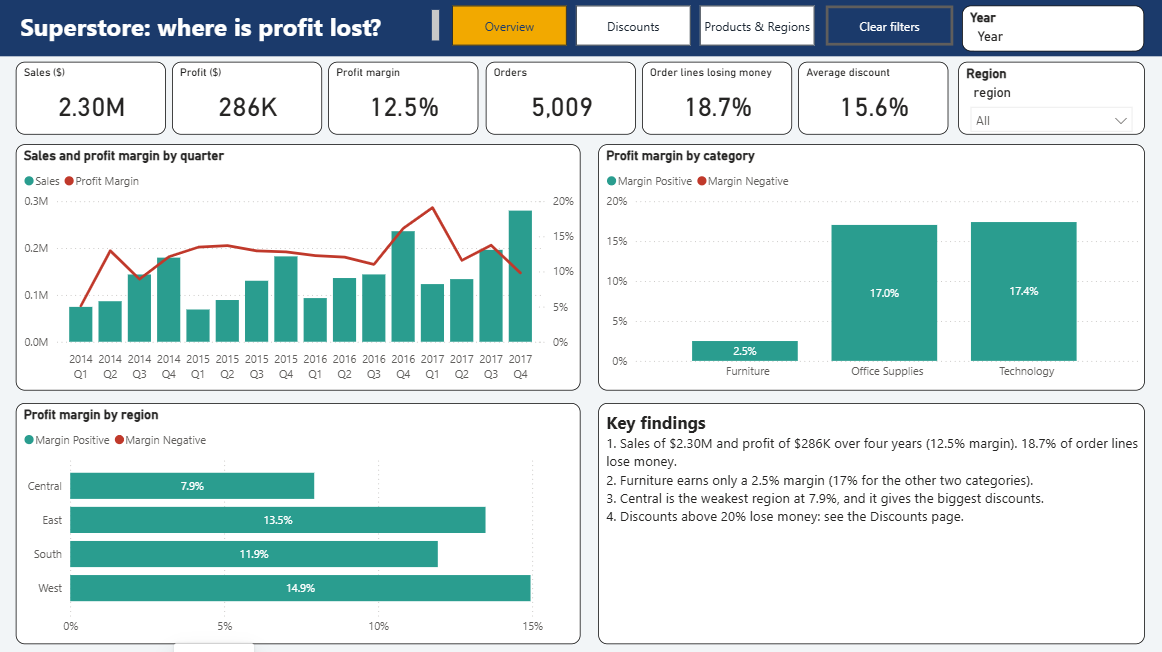
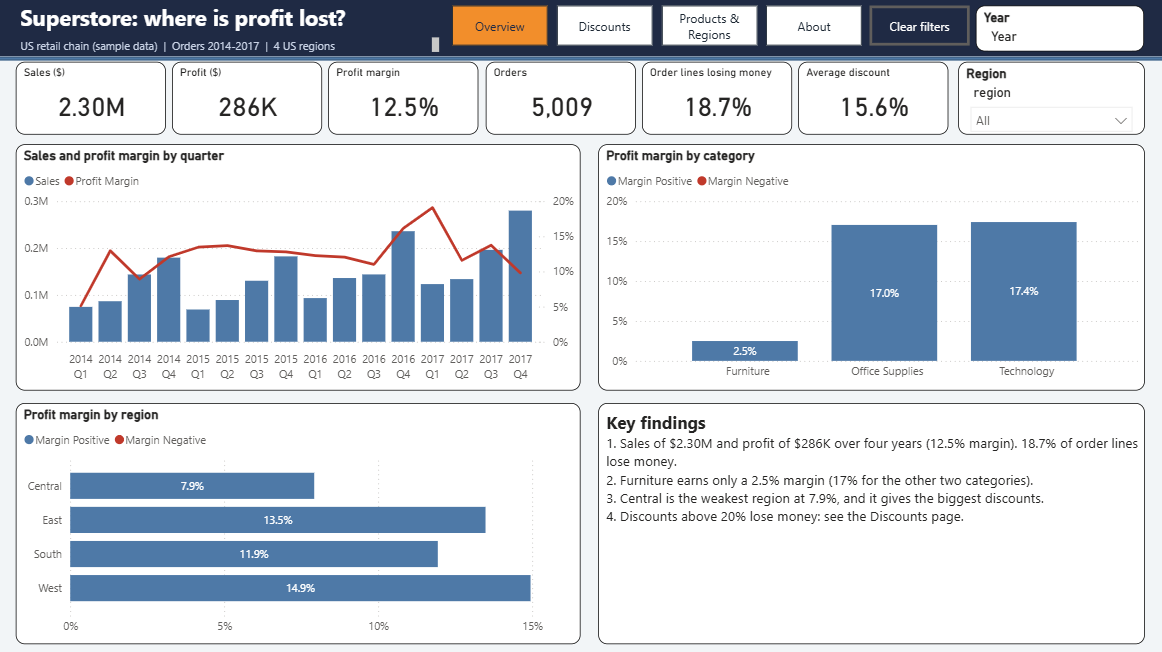
Refresh the Power BI design and add an About page
New identity (slate header, blue data color, orange accent, red for losses),
a subtitle and accent stripe in the header, and a fourth page that presents the
fictional company, the data in numbers, definitions, method and limits.

diff --git a/powerbi/build_pbip.py b/powerbi/build_pbip.py
@@ -24,7 +24,10 @@ DATA_DIR = str(ROOT / "data")
 TABLES_DIR = str(ROOT / "reports" / "tables")
 
 T = "\t"
-NAVY, TEAL, RED, AMBER, GREY = "#1B3A6B", "#2A9D8F", "#C0392B", "#F2A900", "#9AA5B1"
+# Superstore is a fictional company (Tableau sample data), so it has no brand colors.
+# The identity is a design choice: deep slate header, blue as the main data color,
+# orange as the accent, and red reserved for losses.
+NAVY, TEAL, RED, AMBER, GREY = "#1F2A44", "#4E79A7", "#C0392B", "#F28E2B", "#9AA5B1"
 
 
 def w(path, text):
@@ -322,7 +325,7 @@ def table(name, x, y, w_, h, cols, ttl, sort=None):
 def nav(name):
     selected = {"properties": {"fillColor": solid(AMBER)}, "selector": {"id": "selected"}}
     selected_text = {"properties": {"fontColor": solid(NAVY)}, "selector": {"id": "selected"}}
-    return visual(name, 500, 8, 400, 44, "pageNavigator", objects={"fill": [selected], "text": [selected_text]})
+    return visual(name, 500, 8, 450, 44, "pageNavigator", objects={"fill": [selected], "text": [selected_text]})
 
 
 def band(name):
@@ -337,19 +340,36 @@ def clear_button(name):
                                      "fontColor": solid("#FFFFFF")}, "selector": {"id": "default"}}],
             "icon": [{"properties": {"shapeType": lit("'blank'")}, "selector": {"id": "default"}}]}
     link = {"visualLink": [{"properties": {"show": lit("true"), "type": lit("'ClearAllSlicers'")}}]}
-    return visual(name, 910, 8, 140, 44, "actionButton", objects=objs, container=link)
+    return visual(name, 958, 8, 110, 44, "actionButton", objects=objs, container=link)
 
 
 def title_box(name, text):
-    return textbox(name, 20, 8, 470, 44, [(text, True, 20, "#FFFFFF")])
+    return textbox(name, 20, 0, 470, 46, [(text, True, 18, "#FFFFFF")])
+
+
+def subtitle_box(name):
+    return textbox(name, 20, 38, 470, 26,
+                   [("US retail chain (sample data)  |  Orders 2014-2017  |  4 US regions",
+                     False, 9, "#C9D3E6")])
+
+
+def accent_stripe(name):
+    objs = {"shape": [{"properties": {"tileShape": lit("'rectangle'")}}],
+            "fill": [{"properties": {"fillColor": solid(AMBER)}, "selector": {"id": "default"}}],
+            "outline": [{"properties": {"show": lit("false")}}]}
+    return visual(name, 0, 64, 1280, 4, "shape", objs, z=1)
 
 
 def cards(names_and_specs):
     return [card(n, 20 + i * 172, m, lab, **kw) for i, (n, m, lab, kw) in enumerate(names_and_specs)]
 
 
-TOP = lambda t, n: [title_box(f"title{n}", t), nav(f"nav{n}"), clear_button(f"clear{n}"),
-                    slicer(f"slicer_year{n}", 1060, 8, 200, 50, "Calendar", "Year", "Year")]
+def TOP(t, n, year_slicer=True):
+    items = [title_box(f"title{n}", t), subtitle_box(f"subtitle{n}"), accent_stripe(f"stripe{n}"),
+             nav(f"nav{n}"), clear_button(f"clear{n}")]
+    if year_slicer:
+        items.append(slicer(f"slicer_year{n}", 1075, 8, 185, 50, "Calendar", "Year", "Year"))
+    return items
 
 # ---------------- page 1: overview
 page1 = TOP("Superstore: where is profit lost?", 1) + cards([
@@ -417,13 +437,48 @@ page3 = TOP("Products and regions", 3) + [
           "Biggest losses by order line (react to the filters)", sort=("orders", "profit", "Column", "Ascending")),
 ]
 
+# ---------------- page 4: about the company and the data
+def info_box(name, x, y, w_, h, heading, lines):
+    paras = [(heading, True, 17)]
+    for t in lines:
+        paras += [(" ", False, 4), (t, False, 12)]  # a small blank line between items
+    return textbox(name, x, y, w_, h, paras)
+
+
+page4 = TOP("About the company and the data", 4, year_slicer=False) + [
+    info_box("about_company", 20, 82, 620, 290, "The company", [
+        "Superstore is a fictional US retail chain, taken from Tableau's public sample data. It is not a real company, so it has no brand colors: the colors of this report are a design choice.",
+        "It sells furniture, office supplies and technology to consumers, corporate clients and home offices.",
+        "Four US regions: Central, East, South and West. Orders from January 2014 to December 2017.",
+    ]),
+    info_box("about_data", 660, 82, 600, 290, "The data in numbers", [
+        "9,994 order lines in 5,009 orders (2 lines per order on average)",
+        "793 customers, 1,862 products, 17 sub-categories, 49 states",
+        "Average order value: $459",
+        "Sales $2.30M, profit $286K, margin 12.5%",
+        "From 2014 to 2017: sales +51%, profit +89%",
+    ]),
+    info_box("about_defs", 20, 388, 620, 322, "Definitions", [
+        "Profit margin = profit / sales.",
+        "Order line = one product in one order (the unit of analysis).",
+        "Loss-making line = an order line with a negative profit.",
+        "Break-even discount = the discount at which a sub-category's margin reaches zero. It is estimated from the median cost as a share of the full price, with cost = sales - profit.",
+    ]),
+    info_box("about_method", 660, 388, 600, 322, "Method and limits", [
+        "SQL answers the business questions, Python measures the discount effect (regression), Power BI shows the results, and an Excel / Google Sheets workbook gives a second check.",
+        "Association is not causation: discounts are the strongest suspect for the losses, not a proven cause.",
+        "Sample data: the results illustrate a method, not a real company. Profit has no cost detail.",
+        "Source: Tableau Superstore sample data (Kaggle copy).",
+    ]),
+]
+
 # the top band on pages 1 and 2 starts at y=0 with the title; page 3 charts start below the band
-BORDER = {"border": [{"properties": {"show": lit("true"), "color": lit("'#D6DEE6'"), "radius": lit("10D")}}],
+BORDER ={"border": [{"properties": {"show": lit("true"), "color": lit("'#D6DEE6'"), "radius": lit("10D")}}],
           "background": [{"properties": {"show": lit("true"), "color": solid("#FFFFFF"), "transparency": lit("0D")}}]}
-for pg, band_name in ((page1, "band1"), (page2, "band2"), (page3, "band3")):
+for pg, band_name in ((page1, "band1"), (page2, "band2"), (page3, "band3"), (page4, "band4")):
     pg.insert(0, band(band_name))
     for v in pg:
-        if v["name"].startswith("title"):
+        if v["name"].startswith(("title", "subtitle")):
             v["visual"].setdefault("visualContainerObjects", {})["background"] = [{"properties": {"show": lit("false")}}]
         elif v["visual"]["visualType"] not in ("pageNavigator", "actionButton", "shape"):
             v["visual"].setdefault("visualContainerObjects", {}).update(BORDER)
@@ -454,10 +509,10 @@ wj(RP / "definition" / "report.json", {
                  "defaultDrillFilterOtherVisuals": True, "allowChangeFilterTypes": True,
                  "useEnhancedTooltips": True, "useDefaultAggregateDisplayName": True}})
 wj(RP / "definition" / "pages" / "pages.json", {"$schema": f"{SCHEMA}/pagesMetadata/1.0.0/schema.json",
-                                                "pageOrder": ["page_overview", "page_discounts", "page_products"],
+                                                "pageOrder": ["page_overview", "page_discounts", "page_products", "page_about"],
                                                 "activePageName": "page_overview"})
 for pname, disp, visuals in (("page_overview", "Overview", page1), ("page_discounts", "Discounts", page2),
-                             ("page_products", "Products & Regions", page3)):
+                             ("page_products", "Products & Regions", page3), ("page_about", "About", page4)):
     wj(RP / "definition" / "pages" / pname / "page.json",
        {"$schema": f"{SCHEMA}/page/2.0.0/schema.json", "name": pname, "displayName": disp,
         "displayOption": "FitToPage", "height": 720, "width": 1280,

diff --git a/README.md b/README.md
@@ -35,11 +35,13 @@ The SQL step shows an association. Five sharper questions were answered in [`src
 
 ## Power BI dashboard
 
-Three pages with a navigation menu, a "Clear filters" button and year / region filters: **Overview**, **Discounts** (shown at the top) and **Products & Regions**. The numbers match the SQL results (sales $2.30M, profit $286K, 12.5% margin, 18.7% of lines losing money, -$135K on lines above 20% discount).
+Four pages with a navigation menu, a "Clear filters" button and year / region filters: **Overview**, **Discounts** (shown at the top), **Products & Regions** and **About** (the company, the data in numbers, definitions, method and limits). Superstore is a fictional company from Tableau's sample data, so it has no brand colors: the identity is a design choice (slate header, blue for data, orange accent, red only for losses). The numbers match the SQL results (sales $2.30M, profit $286K, 12.5% margin, 18.7% of lines losing money, -$135K on lines above 20% discount).
 
 ![Power BI dashboard, Overview page](reports/figures/powerbi_page1.png)
 
 ![Power BI dashboard, Products and Regions page](reports/figures/powerbi_page3.png)
+
+![Power BI dashboard, About page](reports/figures/powerbi_page4.png)
 
 The same analysis is also available as an Excel / Google Sheets workbook with `SUMIFS` formulas and 4 charts ([`excel/`](excel/)).
 
@@ -67,7 +69,7 @@ The same analysis is also available as an Excel / Google Sheets workbook with `S
 | Data audit | 9,994 rows, 21 columns, **0 missing values**, 0 duplicate IDs. Two traps found and fixed: the file is **not UTF-8** (read as latin-1) and dates are in **US format** (month/day/year). | [`load_data.py`](load_data.py) |
 | SQL analysis | `GROUP BY`, `CASE WHEN` discount buckets, `HAVING`, margin calculation | [`sql/analysis.sql`](sql/analysis.sql) |
 | Python analysis | Regression with robust standard errors, volume check, break-even discounts, region gap, product drill-down | [`src/discount_analysis.py`](src/discount_analysis.py) |
-| Power BI | Model with a calendar and the break-even table, 15 DAX measures, 3 report pages | [`powerbi/`](powerbi/) |
+| Power BI | Model with a calendar and the break-even table, 15 DAX measures, 4 report pages | [`powerbi/`](powerbi/) |
 | Excel / Google Sheets | 3 sheets: data, `SUMIFS` summary, dashboard with 4 charts | [`excel/`](excel/) |
 | Cross-check | All 31 summary rows were checked against the SQL results: no difference | [`excel/build_workbook.py`](excel/build_workbook.py) |
 | Insights | Findings, recommendations and limitations | this README, [`reports/executive_summary.md`](reports/executive_summary.md) |
